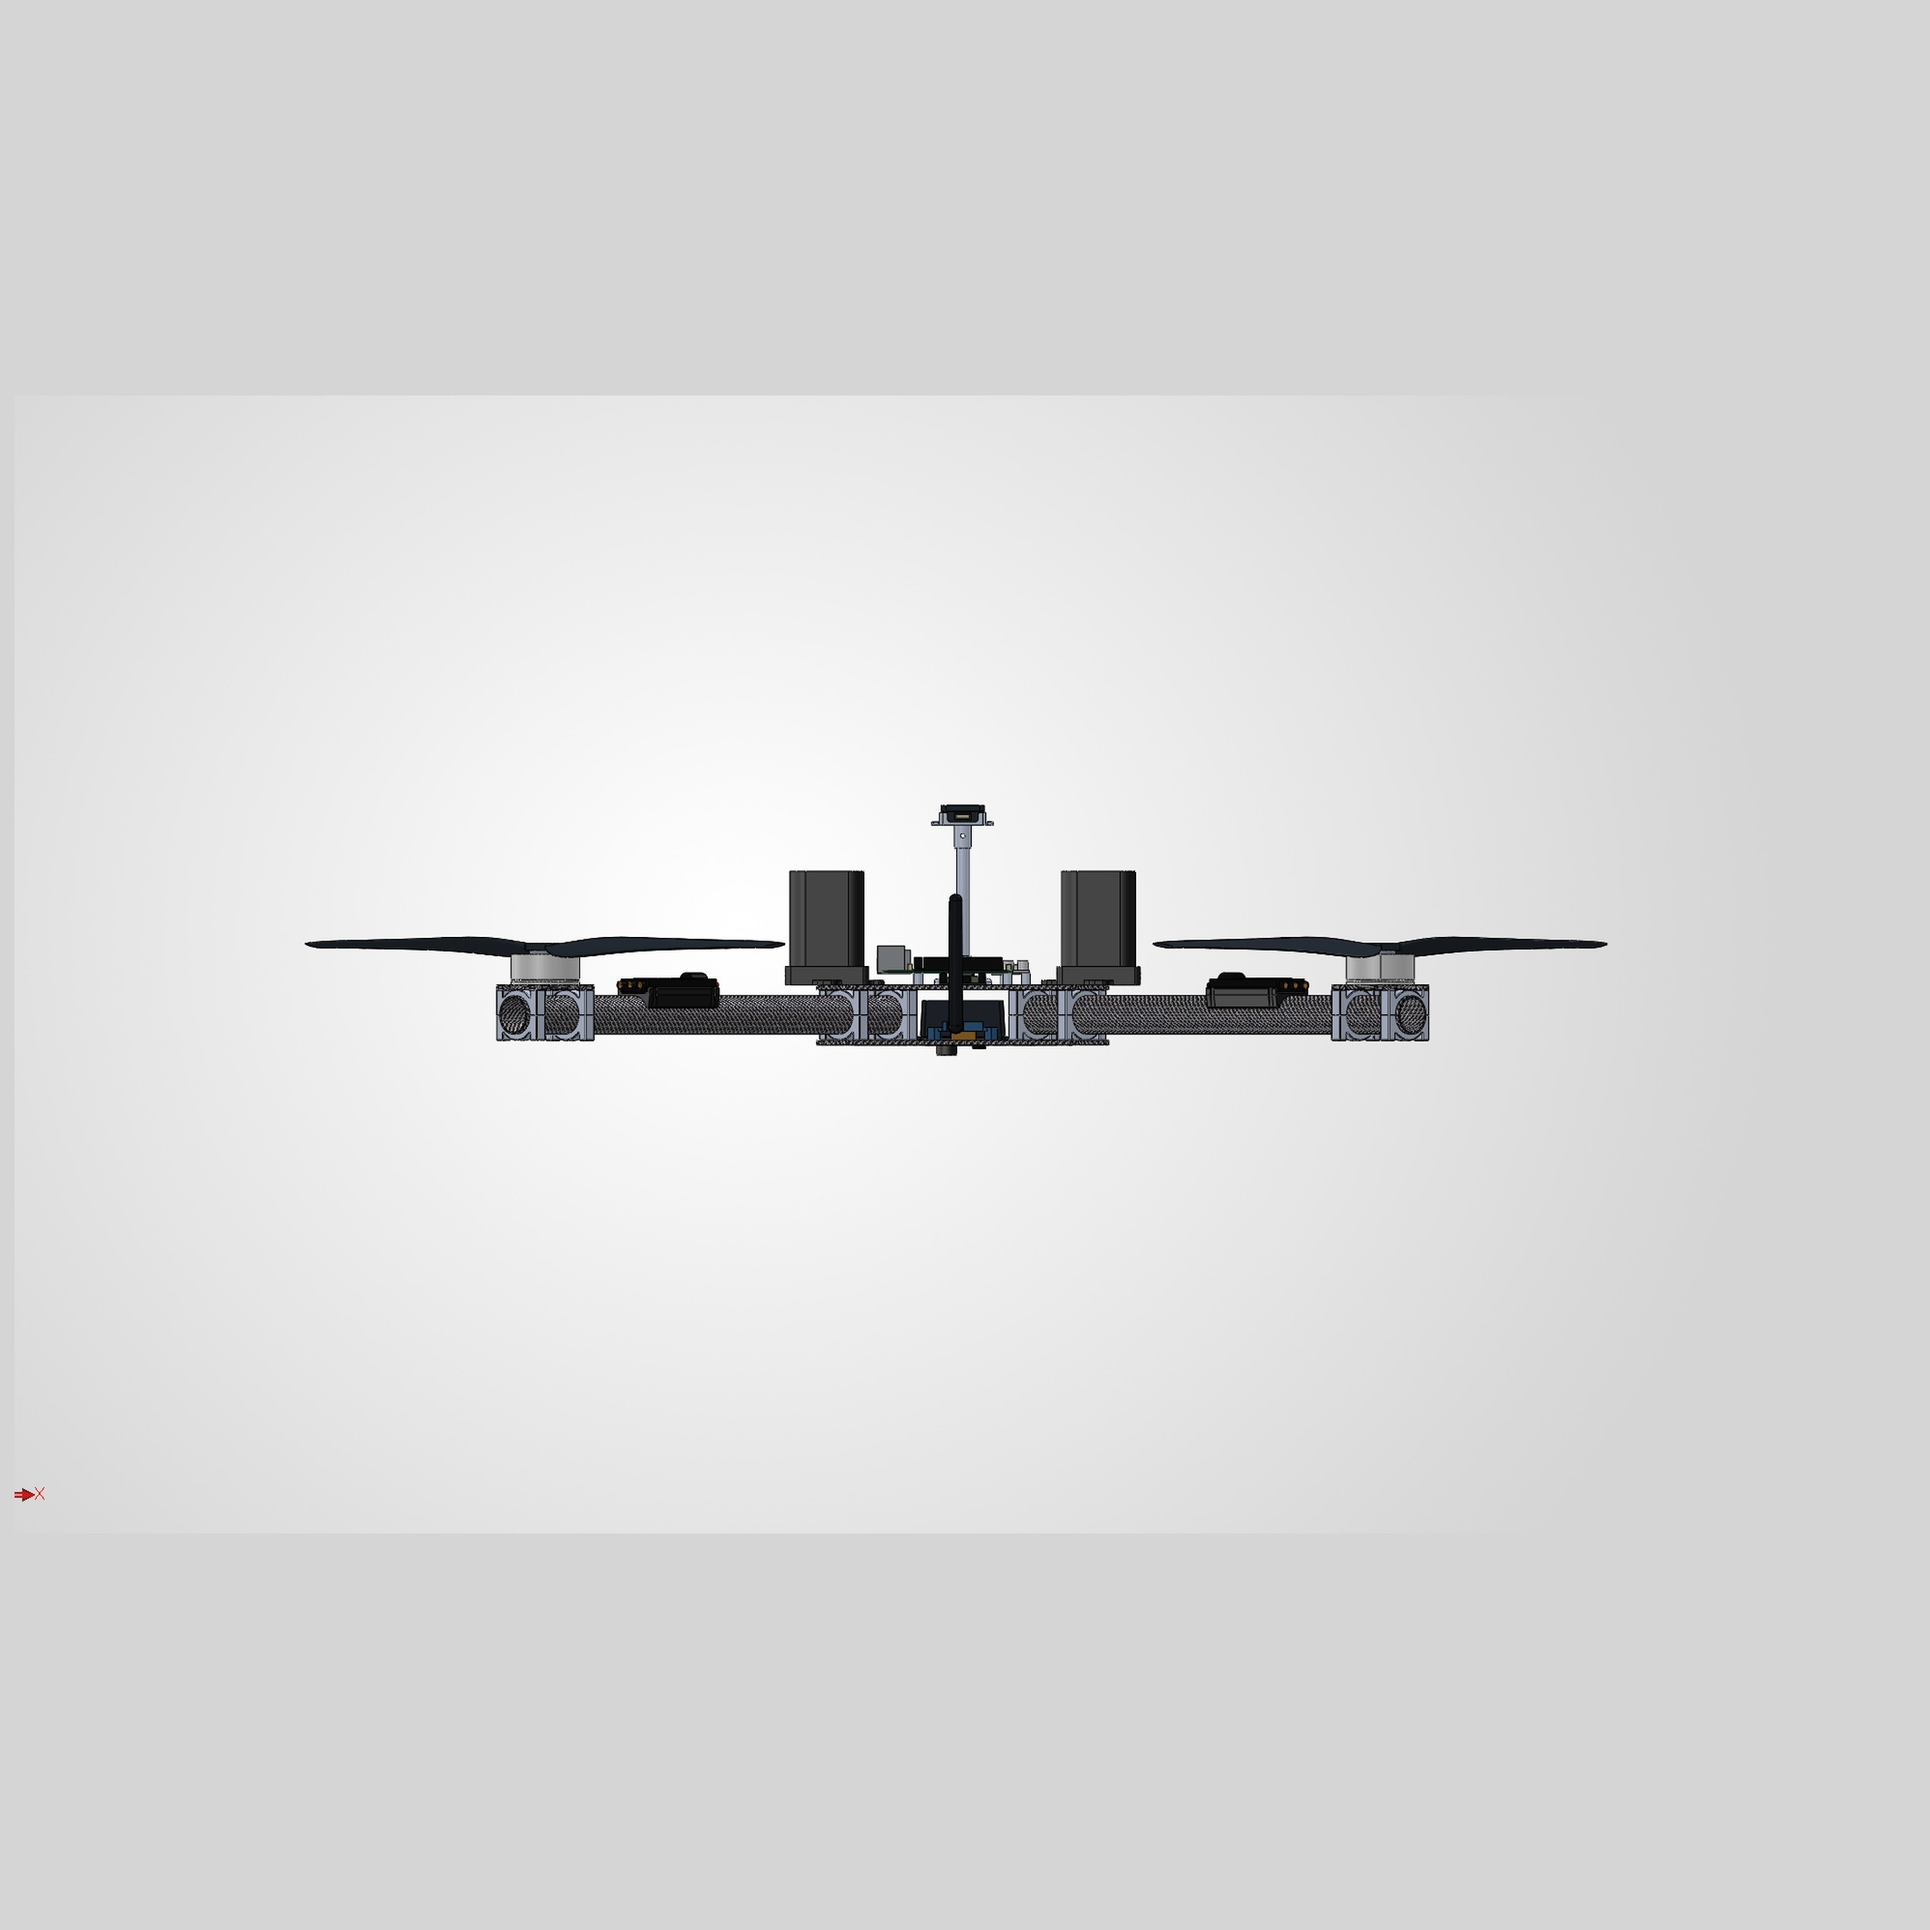
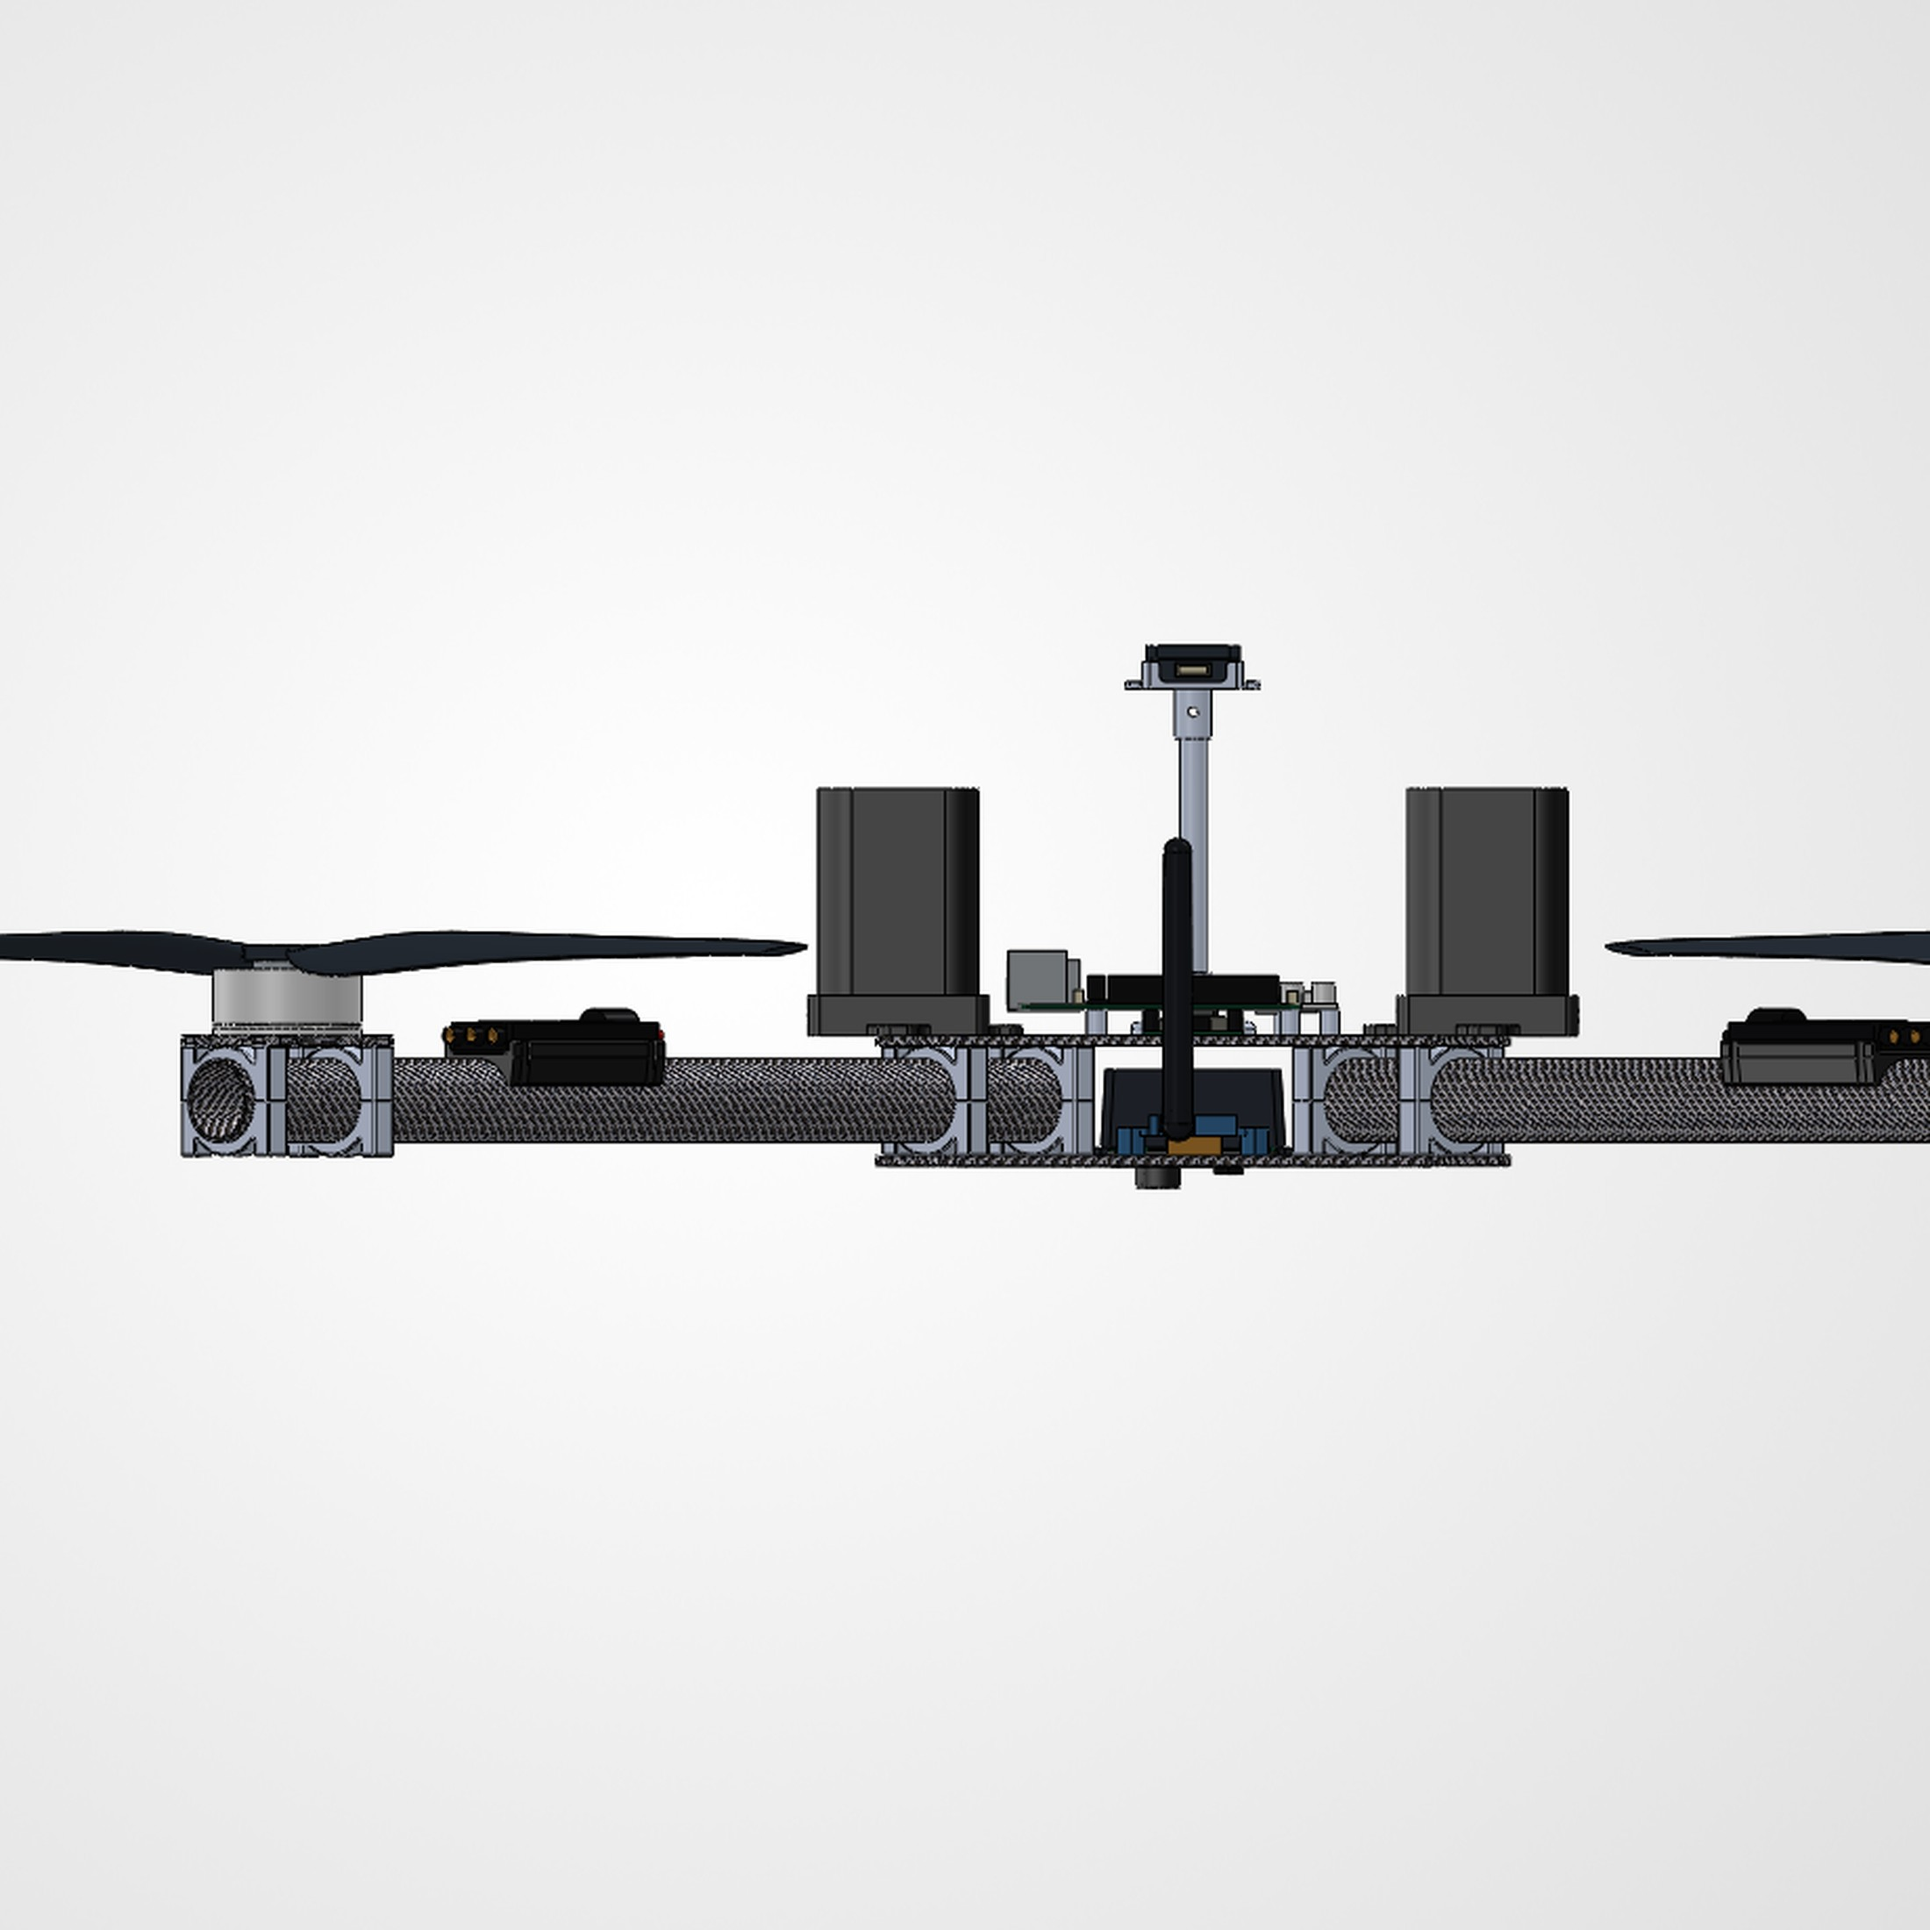
Fix homepage card framing and tighten ECHO front/exploded crops.
Square ECHO card art forced a taller mobile gallery height and clipped
other hero thumbs. Use a landscape card-wide image, restore the mug-like
photo aspect, and size mobile slides from --photo-aspect.

Re-crop front and exploded views from the source vignette (no flat
letterboxing) so the SolidWorks triad and loose padding are gone.

Changed region(s): [[0.0, 0.0, 1.0, 0.9273]]

diff --git a/work/project-echo.html b/work/project-echo.html
@@ -22,7 +22,7 @@
       href="https://fonts.googleapis.com/css2?family=IBM+Plex+Mono:wght@400;500&family=Instrument+Serif&family=Source+Sans+3:wght@400;600;700&display=swap"
       rel="stylesheet"
     />
-    <link rel="stylesheet" href="../css/styles.css?v=echo-card1" />
+    <link rel="stylesheet" href="../css/styles.css?v=echo-fix1" />
   </head>
   <body>
     <a class="skip" href="#main">Skip to content</a>
@@ -382,7 +382,7 @@
               <figcaption>2 · Top view — X-frame layout and center stack</figcaption>
             </figure>
             <figure class="figure">
-              <img src="../assets/images/project-echo/cad-front.jpg?v=tight10" alt="Front CAD view of Project ECHO" width="2200" height="2200" loading="lazy" />
+              <img src="../assets/images/project-echo/cad-front.jpg?v=tight20" alt="Front CAD view of Project ECHO" width="2200" height="2200" loading="lazy" />
               <figcaption>3 · Front view — mast, packs, and propeller plane</figcaption>
             </figure>
             <figure class="figure">
@@ -390,7 +390,7 @@
               <figcaption>4 · Front-top isometric — packaging overview</figcaption>
             </figure>
             <figure class="figure">
-              <img src="../assets/images/project-echo/cad-exploded.jpg?v=tight10" alt="Exploded isometric CAD assembly of Project ECHO" width="2200" height="2200" loading="lazy" />
+              <img src="../assets/images/project-echo/cad-exploded.jpg?v=tight20" alt="Exploded isometric CAD assembly of Project ECHO" width="2200" height="2200" loading="lazy" />
               <figcaption>5 · Exploded isometric — assembly stack and major subsystems</figcaption>
             </figure>
           </div>
@@ -521,7 +521,7 @@
         <span>© <span data-year></span> Campbell Downs · <span class="host-mark" data-host-mark>.g / .v</span></span>
       </div>
     </footer>
-    <script src="../js/site.js?v=5714c710"></script>
+    <script src="../js/site.js?v=echo-fix1"></script>
     <script type="module" src="https://ajax.googleapis.com/ajax/libs/model-viewer/3.5.0/model-viewer.min.js"></script>
     <script src="../js/echo-viewer.js?v=prod014c1"></script>
   </body>

diff --git a/index.html b/index.html
@@ -24,7 +24,7 @@
       href="https://fonts.googleapis.com/css2?family=IBM+Plex+Mono:wght@400;500&family=Instrument+Serif&family=Source+Sans+3:wght@400;600;700&display=swap"
       rel="stylesheet"
     />
-    <link rel="stylesheet" href="css/styles.css?v=echo-card1" />
+    <link rel="stylesheet" href="css/styles.css?v=echo-fix1" />
   </head>
   <body>
     <a class="skip" href="#main">Skip to content</a>
@@ -75,7 +75,7 @@
               <span>Optimized bracket</span>
             </a>
             <a class="thumb thumb-wide photo-mat-echo" href="work/project-echo.html">
-              <img src="assets/images/project-echo/card.jpg" alt="CAD render of the Project ECHO agricultural survey drone" />
+              <img src="assets/images/project-echo/card-wide.jpg" alt="CAD render of the Project ECHO agricultural survey drone" />
               <span>Project ECHO</span>
             </a>
             <a class="thumb thumb-wide photo-mat-fea" href="work/pull-up-bar.html">
@@ -152,7 +152,7 @@
               </div>
             </a>
             <a class="card work-card work-card-wide photo-mat-echo" href="work/project-echo.html">
-              <img src="assets/images/project-echo/card.jpg" alt="CAD render of the Project ECHO agricultural survey drone" />
+              <img src="assets/images/project-echo/card-wide.jpg" alt="CAD render of the Project ECHO agricultural survey drone" />
               <div class="body">
                 <span class="num">05 / Systems Engineering</span>
                 <h3>Project ECHO</h3>
@@ -254,6 +254,6 @@
         <span>© <span data-year></span> Campbell Downs · <span class="host-mark" data-host-mark>.g / .v</span></span>
       </div>
     </footer>
-    <script src="js/site.js?v=5714c710"></script>
+    <script src="js/site.js?v=echo-fix1"></script>
   </body>
 </html>

diff --git a/resume.html b/resume.html
@@ -14,7 +14,7 @@
       href="https://fonts.googleapis.com/css2?family=IBM+Plex+Mono:wght@400;500&family=Instrument+Serif&family=Source+Sans+3:wght@400;600;700&display=swap"
       rel="stylesheet"
     />
-    <link rel="stylesheet" href="css/styles.css?v=echo-card1" />
+    <link rel="stylesheet" href="css/styles.css?v=echo-fix1" />
   </head>
   <body>
     <a class="skip" href="#main">Skip to content</a>
@@ -86,7 +86,7 @@
       </div>
     </footer>
     <script src="js/site-config.js?v=c54241d7"></script>
-    <script src="js/site.js?v=5714c710"></script>
+    <script src="js/site.js?v=echo-fix1"></script>
     <script src="https://cdnjs.cloudflare.com/ajax/libs/pdf.js/3.11.174/pdf.min.js"></script>
     <script src="js/resume.js"></script>
   </body>

diff --git a/js/site.js b/js/site.js
@@ -81,10 +81,16 @@ if (gallery && dots) {
   const slideHeight = (slide) => {
     const img = slide.querySelector("img");
     if (!img) return 0;
+    const width = slideWidth();
+    const aspectVar = getComputedStyle(slide).getPropertyValue("--photo-aspect").trim();
+    if (aspectVar && aspectVar.includes("/")) {
+      const [aw, ah] = aspectVar.split("/").map((part) => Number(part.trim()));
+      if (aw > 0 && ah > 0) return width * (ah / aw);
+    }
     const naturalW = img.naturalWidth;
     const naturalH = img.naturalHeight;
     if (!naturalW || !naturalH) return 0;
-    return slideWidth() * (naturalH / naturalW);
+    return width * (naturalH / naturalW);
   };
 
   const maxSlideHeight = () => {

diff --git a/work/bike-horn-mount.html b/work/bike-horn-mount.html
@@ -17,7 +17,7 @@
       href="https://fonts.googleapis.com/css2?family=IBM+Plex+Mono:wght@400;500&family=Instrument+Serif&family=Source+Sans+3:wght@400;600;700&display=swap"
       rel="stylesheet"
     />
-    <link rel="stylesheet" href="../css/styles.css?v=echo-card1" />
+    <link rel="stylesheet" href="../css/styles.css?v=echo-fix1" />
   </head>
   <body>
     <a class="skip" href="#main">Skip to content</a>
@@ -138,6 +138,6 @@
         <span>© <span data-year></span> Campbell Downs · <span class="host-mark" data-host-mark>.g / .v</span></span>
       </div>
     </footer>
-    <script src="../js/site.js?v=5714c710"></script>
+    <script src="../js/site.js?v=echo-fix1"></script>
   </body>
 </html>

diff --git a/work/double-wall-mug.html b/work/double-wall-mug.html
@@ -17,7 +17,7 @@
       href="https://fonts.googleapis.com/css2?family=IBM+Plex+Mono:wght@400;500&family=Instrument+Serif&family=Source+Sans+3:wght@400;600;700&display=swap"
       rel="stylesheet"
     />
-    <link rel="stylesheet" href="../css/styles.css?v=echo-card1" />
+    <link rel="stylesheet" href="../css/styles.css?v=echo-fix1" />
   </head>
   <body>
     <a class="skip" href="#main">Skip to content</a>
@@ -148,6 +148,6 @@
         <span>© <span data-year></span> Campbell Downs · <span class="host-mark" data-host-mark>.g / .v</span></span>
       </div>
     </footer>
-    <script src="../js/site.js?v=5714c710"></script>
+    <script src="../js/site.js?v=echo-fix1"></script>
   </body>
 </html>

diff --git a/work/fitness-rack.html b/work/fitness-rack.html
@@ -17,7 +17,7 @@
       href="https://fonts.googleapis.com/css2?family=IBM+Plex+Mono:wght@400;500&family=Instrument+Serif&family=Source+Sans+3:wght@400;600;700&display=swap"
       rel="stylesheet"
     />
-    <link rel="stylesheet" href="../css/styles.css?v=echo-card1" />
+    <link rel="stylesheet" href="../css/styles.css?v=echo-fix1" />
   </head>
   <body>
     <a class="skip" href="#main">Skip to content</a>
@@ -153,6 +153,6 @@
         <span>© <span data-year></span> Campbell Downs · <span class="host-mark" data-host-mark>.g / .v</span></span>
       </div>
     </footer>
-    <script src="../js/site.js?v=5714c710"></script>
+    <script src="../js/site.js?v=echo-fix1"></script>
   </body>
 </html>

diff --git a/work/pull-up-bar.html b/work/pull-up-bar.html
@@ -17,7 +17,7 @@
       href="https://fonts.googleapis.com/css2?family=IBM+Plex+Mono:wght@400;500&family=Instrument+Serif&family=Source+Sans+3:wght@400;600;700&display=swap"
       rel="stylesheet"
     />
-    <link rel="stylesheet" href="../css/styles.css?v=echo-card1" />
+    <link rel="stylesheet" href="../css/styles.css?v=echo-fix1" />
   </head>
   <body>
     <a class="skip" href="#main">Skip to content</a>
@@ -139,6 +139,6 @@
         <span>© <span data-year></span> Campbell Downs · <span class="host-mark" data-host-mark>.g / .v</span></span>
       </div>
     </footer>
-    <script src="../js/site.js?v=5714c710"></script>
+    <script src="../js/site.js?v=echo-fix1"></script>
   </body>
 </html>

diff --git a/css/styles.css b/css/styles.css
@@ -360,6 +360,10 @@ a {
 .hero-gallery .thumb img {
   width: 100%;
   height: 100%;
+  min-width: 0;
+  min-height: 0;
+  max-width: 100%;
+  max-height: 100%;
   aspect-ratio: auto;
   object-fit: cover;
   object-position: center;
@@ -457,7 +461,7 @@ a {
 }
 
 .photo-mat-echo {
-  --photo-aspect: 1 / 1;
+  --photo-aspect: 1028 / 780;
   --photo-grade: linear-gradient(
     180deg,
     #cfcfcf 0%,

diff --git a/404.html b/404.html
@@ -5,7 +5,7 @@
     <meta name="viewport" content="width=device-width, initial-scale=1" />
     <title>Page not found — Campbell Downs</title>
     <link rel="icon" href="assets/favicon.svg" type="image/svg+xml" />
-    <link rel="stylesheet" href="css/styles.css?v=echo-card1" />
+    <link rel="stylesheet" href="css/styles.css?v=echo-fix1" />
   </head>
   <body>
     <main class="wrap section">
